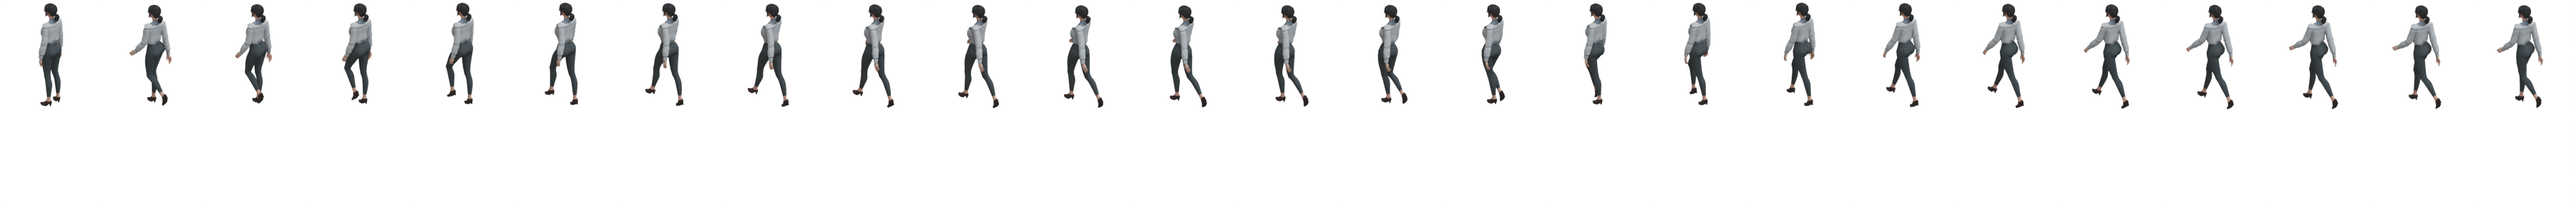
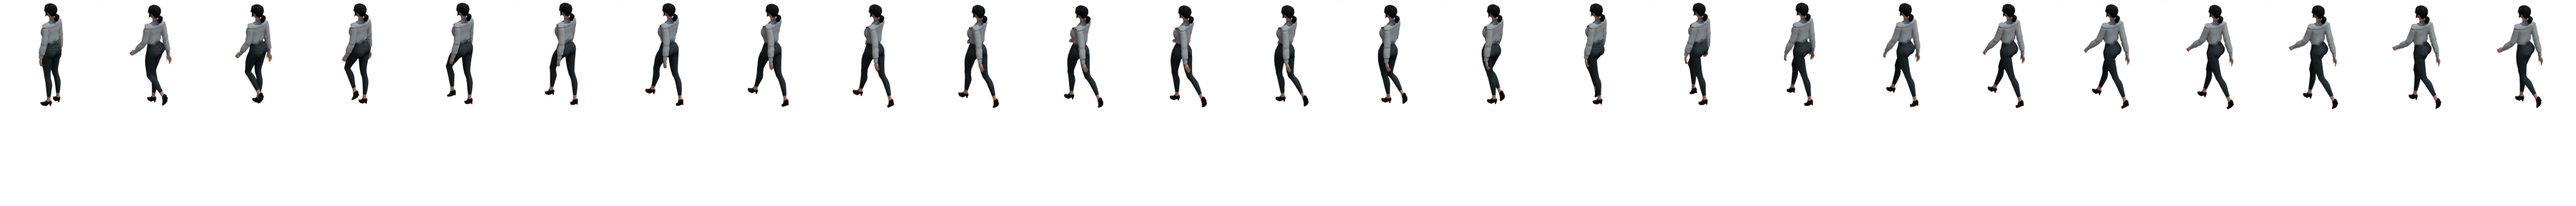
master

diff --git a/js/Resource.js b/js/Resource.js
@@ -14,35 +14,27 @@ let CR = [
     { key: 'walk_5', src: '../resources/character/walk_ss.png' },
     { key: 'walk_6', src: '../resources/character/walk_sw.png' },
     { key: 'walk_7', src: '../resources/character/walk_ww.png' },
-    { key: 'walk_8', src: '../resources/character/walk_nw.png' }
+    { key: 'walk_8', src: '../resources/character/walk_nw.png' },
+    { key: 'walk_shadow', src: '../resources/character/walk_shadow.png' }
 ];
 
 let SS = 10;
 let SW = 288;
 let SH = 288;
 let SR = [
-    { key: 'fireball_1', src: '../resources/spell/fireball_nn.png' },
-    { key: 'fireball_2', src: '../resources/spell/fireball_ne.png' },
-    { key: 'fireball_3', src: '../resources/spell/fireball_ee.png' },
-    { key: 'fireball_4', src: '../resources/spell/fireball_se.png' },
-    { key: 'fireball_5', src: '../resources/spell/fireball_ss.png' },
-    { key: 'fireball_6', src: '../resources/spell/fireball_sw.png' },
-    { key: 'fireball_7', src: '../resources/spell/fireball_ww.png' },
-    { key: 'fireball_8', src: '../resources/spell/fireball_nw.png' }
+    { key: 'fireball', src: '../resources/spell/fireball.png' },
+    { key: 'fireball_shadow', src: '../resources/spell/fireball_shadow.png' }
 ];
 
 let TILE_SIZE = 36;
 let TILE_HALF = 18;
 
 let MR = [
-    { key: 'map_001', src: '../resources/map/map_001.png' },
-    { key: 'map_002', src: '../resources/map/map_002.png' }
+    { key: 'map_001', src: '../resources/map/map_001.png' }
 ];
 
 let OR = [
-    { key: 'wall_h', src: '../resources/obstacle/wall_h.png' },
-    { key: 'wall_v', src: '../resources/obstacle/wall_v.png' },
-    { key: 'block_c', src: '../resources/obstacle/block_c.png' }
+  
 ];
 
 export { TO_RADIAN, TILE_SIZE, TILE_HALF, WF, SF, CS, CW, CH, CR, SS, SW, SH, SR, MR, OR };

diff --git a/js/GameManager.js b/js/GameManager.js
@@ -26,7 +26,7 @@ class GameManager {
     async #initResource() {
         await SrcManager.createGroup('character', CR);
         await SrcManager.createGroup('map', MR);
-        await SrcManager.createGroup('obstacle', OR);
+        // await SrcManager.createGroup('obstacle', OR);
         await SrcManager.createGroup('spell', SR);
     }
 
@@ -77,16 +77,16 @@ class GameManager {
         // this.mainScene.createObstacle('wall_h', 0, 39, 40, 1);
         // this.mainScene.createObstacle('wall_v', 39, 0, 1, 40);
 
-        // obstacle
-        this.mainScene.createObstacle('block_c', 8, 7,  1, 1);
-        this.mainScene.createObstacle('block_c', 7, 31,  1, 1);
-        this.mainScene.createObstacle('block_c', 32, 8,  1, 1);
-        this.mainScene.createObstacle('block_c', 31, 32,  1, 1);
+        // // obstacle
+        // this.mainScene.createObstacle('block_c', 8, 7,  1, 1);
+        // this.mainScene.createObstacle('block_c', 7, 31,  1, 1);
+        // this.mainScene.createObstacle('block_c', 32, 8,  1, 1);
+        // this.mainScene.createObstacle('block_c', 31, 32,  1, 1);
 
-        this.mainScene.createObstacle('block_c', 12, 20,  1, 1);
-        this.mainScene.createObstacle('block_c', 19, 12,  1, 1);
-        this.mainScene.createObstacle('block_c', 27, 19,  1, 1);
-        this.mainScene.createObstacle('block_c', 20, 27,  1, 1);
+        // this.mainScene.createObstacle('block_c', 12, 20,  1, 1);
+        // this.mainScene.createObstacle('block_c', 19, 12,  1, 1);
+        // this.mainScene.createObstacle('block_c', 27, 19,  1, 1);
+        // this.mainScene.createObstacle('block_c', 20, 27,  1, 1);
 
         this.controlReader = setInterval(this.readControl, 100, this);
 

diff --git a/js/Character.js b/js/Character.js
@@ -12,6 +12,8 @@ export default class Character {
         this.name = name;
         this.scene = scene;
 
+        this.shadow = SrcManager.getGroup('character').get('walk_shadow');
+
         this.width = CW;
         this.height = CH;
 
@@ -93,18 +95,30 @@ export default class Character {
             index = 0;
         }
 
-        GameManager
-            .ctx
-            .drawImage(
-                img,
-                this.width * index,
-                0,
-                this.width,
-                this.height,
-                this.x - map.getOriginX() - (this.width / 2),
-                this.y - map.getOriginY() - (this.height / 2),
-                this.width,
-                this.height
-            );
+        var ctx = GameManager.ctx;
+
+        ctx.drawImage(
+            img,
+            this.width * index,
+            0,
+            this.width,
+            this.height,
+            this.x - map.getOriginX() - (this.width / 2),
+            this.y - map.getOriginY() - (this.height / 2),
+            this.width,
+            this.height
+        );
+
+        ctx.drawImage(
+            this.shadow,
+            0,
+            0,
+            this.width,
+            this.height,
+            this.x - map.getOriginX() - (this.width / 2),
+            this.y - map.getOriginY() - (this.height / 2),
+            this.width,
+            this.height
+        );
     }
 }

diff --git a/js/Spell.js b/js/Spell.js
@@ -26,7 +26,8 @@ export default class Spell {
         this.x = x + this.diagonalX * this.offset;
         this.y = y + this.diagonalY * this.offset;
 
-        this.img = SrcManager.getGroup('spell').get('fireball_' + Scene.NN);
+        this.img = SrcManager.getGroup('spell').get('fireball');
+        this.shadow = SrcManager.getGroup('spell').get('fireball_shadow');
 
         this.scene = scene;
         this.scene.objectMap.set(this.id, this);
@@ -67,7 +68,7 @@ export default class Spell {
 
     draw(map) {
         var pointX = this.x - map.getOriginX();
-        var pointY = this.y - map.getOriginY() - 100;
+        var pointY = this.y - map.getOriginY()- 100;
 
         var ctx = GameManager.ctx;
         ctx.save();
@@ -77,6 +78,27 @@ export default class Spell {
 
         ctx.drawImage(
             this.img,
+            this.width * this.fIndex,
+            0,
+            this.width,
+            this.height,
+            pointX - (this.width / 2),
+            pointY - (this.height / 2),
+            this.width,
+            this.height
+        );
+
+        ctx.restore();
+
+        pointY += 100;
+
+        ctx.save();
+        ctx.translate(pointX, pointY);
+        ctx.rotate(this.radian);
+        ctx.translate(-pointX, -pointY);
+
+        ctx.drawImage(
+            this.shadow,
             this.width * this.fIndex,
             0,
             this.width,
